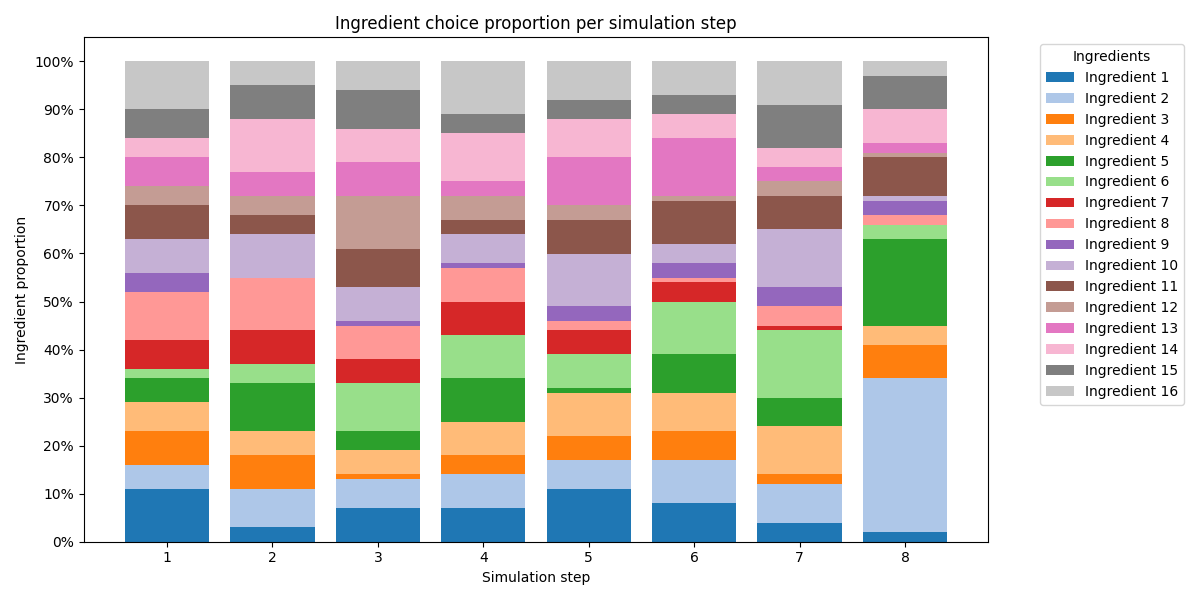
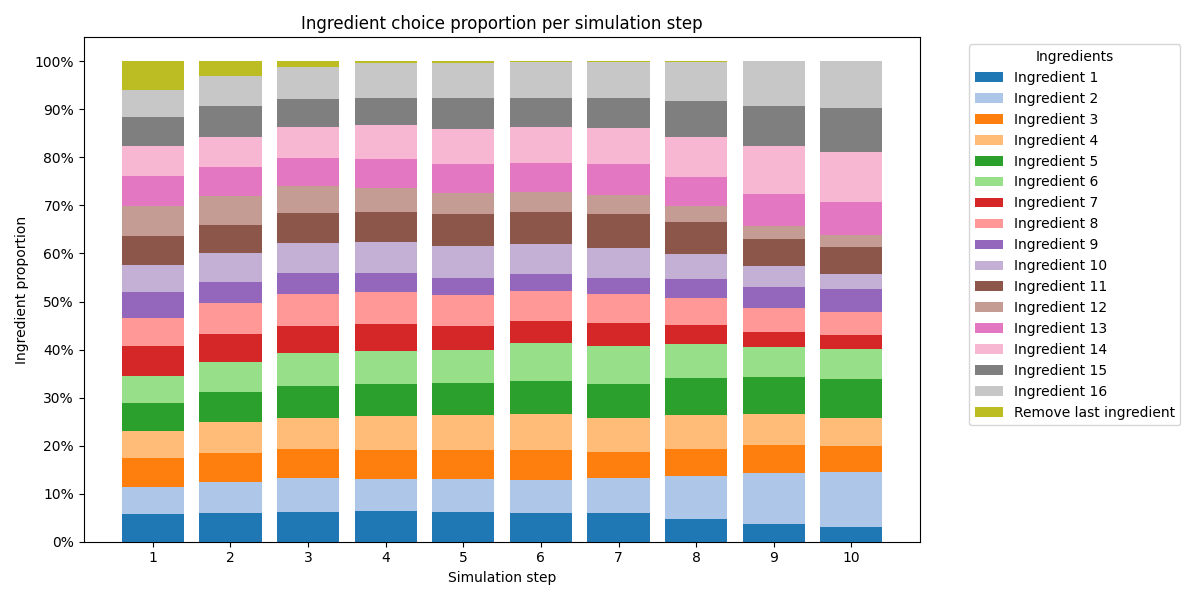
🐛 fixing visualization

diff --git a/code/main.py b/code/main.py
@@ -5,25 +5,16 @@ from simulate import ChainSimulation
 # Optimize recipes
 torch_device = "cuda"
 chain = ChainSimulation(torch_device)
-# recipe = ['Horse S*men', 'Motor Oil', 'Paracetamol']
 # recipe = [
-#     'Cuke',
-#     'Energy Drink',
-#     'Horse S*men',
 #     'Banana',
-#     'Horse S*men',
-# ]
-# recipe = [
-#     'Horse S*men',
-#     'V*agra',
+#     'Gasoline',
+#     'Paracetamol',
+#     'Cuke',
 #     'Mega Bean',
-#     'Donut',
-#     'Iodine',
-#     'Donut',
-#     'Battery'
-#     'Remove'
+#     'Battery',
+#     'Banana',
+#     'Cuke',
 # ]
-# recipe = ['Iodine', 'Flu Medicine', 'Horse S*men', 'Mouth Wash', 'Banana', 'Horse S*men', 'Iodine', 'Banana']
 # result = chain.mix_recipe("OG Kush", recipe)
 # print(
 # f"""
@@ -31,16 +22,17 @@ chain = ChainSimulation(torch_device)
 # Efeitos: {result['effects']}
 # Custo: {result['cost']}
 # Valor: {result['value']}
+# Lucro: {result['profit']}
 # """
 # )
 
 results_data, results_opt = chain.optimize_recipe(
     base_product="OG Kush",
     objective_function='profit',
-    num_simulations=5,
-    batch_size=1_000,
-    num_steps=8,
-    T0=5.0
+    num_simulations=1,
+    batch_size=20_000,
+    num_steps=10,
+    T0=10.0
 )
 print(
 f"""
@@ -49,14 +41,14 @@ Receita: {results_opt["recipe"]}
 Efeitos: {results_opt["effects"]}
 Custo: {results_opt["cost"]}
 Valor: {results_opt["value"]}
-Profit: {results_opt["profit"]}
+Lucro: {results_opt["profit"]}
 """
 )
 
-# # Plot simulation graphs
-# visualize_ingredients_choice(
-#     results_data['recipes'],
-#     n_ingredients=chain.n_ingredients
-# )
+# Plot simulation graphs
+visualize_ingredients_choice(
+    results_data['recipes'],
+    n_ingredients=chain.n_ingredients
+)
 
-# visualize_profits(profits=results_data['profits'])
+visualize_profits(profits=results_data['profits'])

diff --git a/code/plots.py b/code/plots.py
@@ -5,12 +5,13 @@ import torch
 
 
 def visualize_ingredients_choice(
-    recipes: torch.Tensor,
+    ingredients: torch.Tensor,
     n_ingredients: int):
     """Visualize ingredients choice in bar plots."""
-    num_steps = recipes.shape[0]
+    ingredients = ingredients.int()
+    num_steps = ingredients.shape[0]
     ingredients_count = torch.stack([
-        torch.bincount(recipes[step], minlength=n_ingredients)
+        torch.bincount(ingredients[step], minlength=n_ingredients + 1)
         for step in range(num_steps)
     ])
     ingredients_proportion = (
@@ -26,16 +27,21 @@ def visualize_ingredients_choice(
         if n_ingredients <= 20
         else plt.cm.get_cmap('hsv', n_ingredients)
     )
-    colors = [cmap(i) for i in range(n_ingredients)]
+    colors = [cmap(i) for i in range(n_ingredients + 1)]
 
-    for i in range(n_ingredients):
+    for i in range(n_ingredients + 1):
+        if i < n_ingredients:
+            label = f'Ingredient {i + 1}'
+        else:
+            label = 'Remove last ingredient'
+
         ax.bar(
             steps,
             ingredients_proportion[:, i],
             bottom=bottom,
             width=0.8,
             color=colors[i],
-            label=f'Ingredient {i + 1}'
+            label=label
         )
         bottom += ingredients_proportion[:, i]
 
@@ -54,11 +60,10 @@ def visualize_ingredients_choice(
 def visualize_profits(profits: torch.Tensor):
     """Visualize profit time series."""
     num_steps = profits.shape[0]
-    batch_size = profits.shape[1]
 
     profits = profits.cpu().numpy()
     means = profits.mean(axis=1)
-    sems = profits.std(axis=1) / np.sqrt(batch_size)
+    sems = profits.std(axis=1)
     ci_upper = means + 1.96 * sems
     ci_lower = means - 1.96 * sems
     steps = np.arange(1, num_steps + 1)
